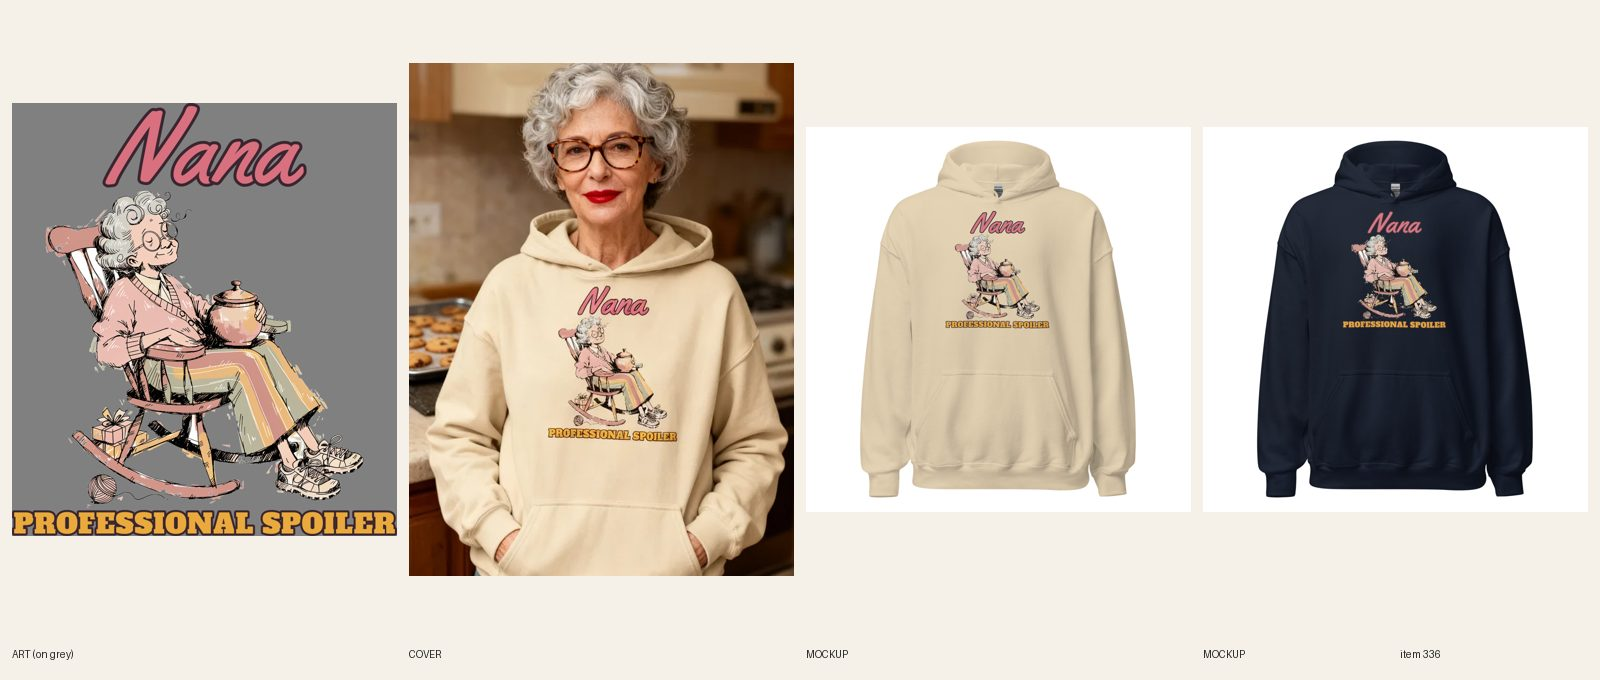
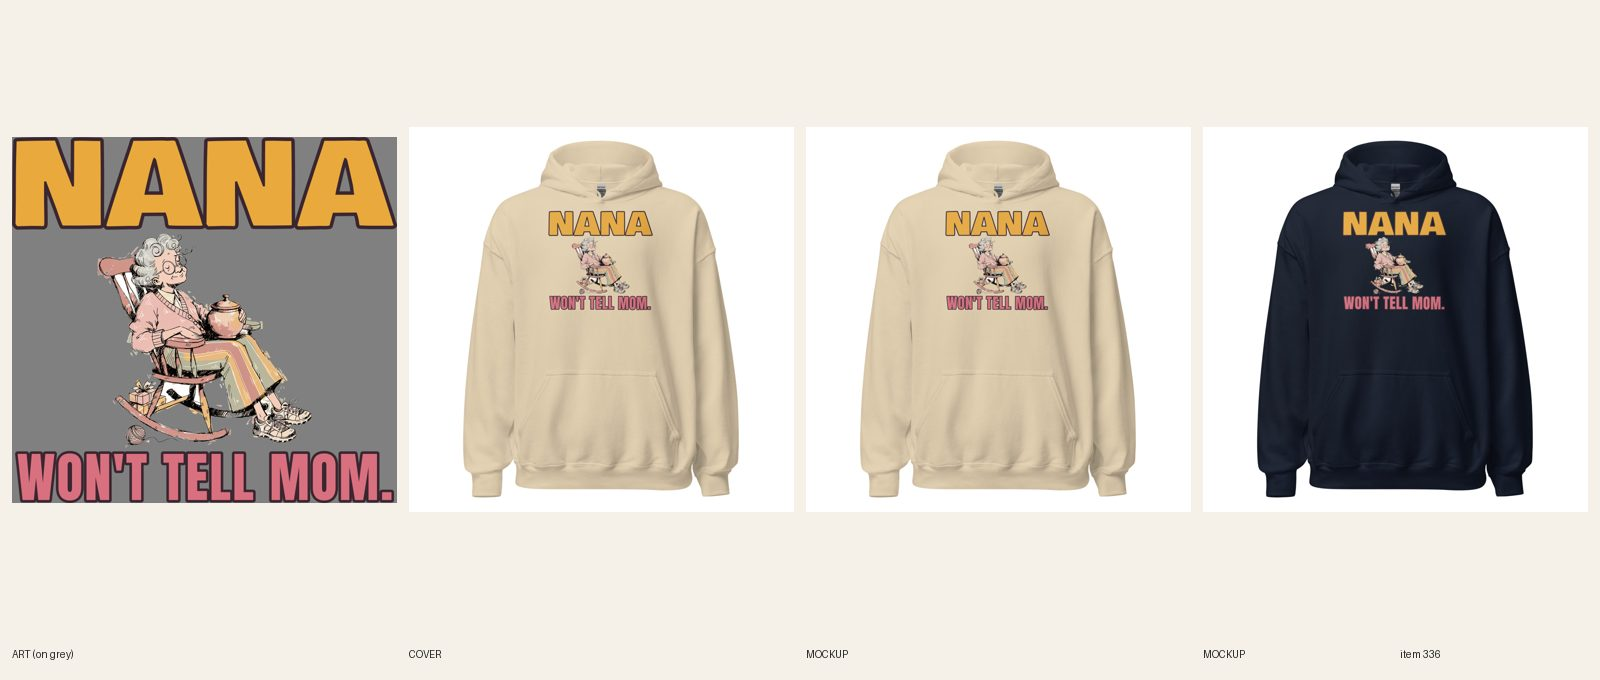
[B] review 336 Won't Tell Mom nana hoodie (type+line redo)
Claude-Session: https://claude.ai/code/session_01T3usSeo7AaAFdBiY3qMrm1

Changed region(s): [[0.0, 0.0926, 0.5, 0.8647], [0.8125, 0.3088, 0.9062, 0.4941], [0.5938, 0.3088, 0.6562, 0.4941]]

diff --git a/docs/pipeline/336-nana-hoodie-professional-spoiler.md b/docs/pipeline/336-nana-hoodie-professional-spoiler.md
@@ -1,4 +1,4 @@
-status: BUILDING [B] 2026-10-19 22:10
+status: REVIEW
 lane: B
 type: new
 id: 336
@@ -30,3 +30,4 @@ kd: 16
 - 2026-10-17 23:45 UTC builder [B]: synced 12/12. REVIEW. Sheet docs/review/336.jpg.
 - 2026-10-17 20:16 UTC director: APPROVED, LIVE. ACTIVE + published Online Store, Headless, Google; cohesion-audit --handle PASS.
 - 2026-10-18 17:22 UTC director: QUALITY RESET grade C (new line + type), REDO. The product stays ACTIVE (same handle, URL, title keyword). 1. Line (R3.12, quality-reset 'Lines'): "Nana / PROFESSIONAL SPOILER": Stock grandma slogan, noun + mild aside; also script headline. Write 5 candidates, keep the one a stranger laughs at in 3 seconds without backstory; kill lines that only describe the picture; if none of the 5 is funny, PARK it. 2. Quality reset type bar (docs/backlog/quality-reset.md, 'The new bar'): headline at least 90% of the art width, heavy, colors pulled from the art; second line at least 45% of the headline's height, never a thin script on a dark or mid garment; use the lettering as a shape (arch, stacked lockup, words breaking into the art), not a plain bar above and a script line below; no font used on more than 1 in 6 of the last 30 designs. 3. Keep the art if it carries the new line, else one new illustration (R4/R5). New print means a new cover per R6.10, copy line one rewritten for the new joke (R8.3), and a fresh review sheet (R7.7). While quality-reset.md says PAUSED, only lane A builds, and only the samples step 2 names.
+- 2026-10-19 22:40 UTC builder [B]: REDO 336 (C grade) done on the existing product (stays ACTIVE, handle unchanged). 5 candidates: "Nana Won't Tell Mom."; "Nana Has Snacks"; "Ask Nana. She'll Say Yes."; "What Happens at Nana's Stays at Nana's"; "Professional Spoiler" (old, stock). Kept NANA / WON'T TELL MOM. (3-second laugh, the cookie jar and presents carry it). Same art (white patch under rocker knocked out, 40000). designs/b336/spec.json: NANA in Bowlby One mustard #e9a93c full print width above, WON'T TELL MOM. in Anton rose #d9707f below (second line 47% of headline height), dark plum outline; no cream fill so no light file needed (R5.3.8 n/a). Printful file 1089952064 (3363x3197), FW 1500 TOP 0, 12/12 on 1089952064, back logo 1080398177. Sand and Navy fronts replaced in place via fileUpdate, alts updated. Shopify: title "Women's Nana – Won't Tell Mom Hoodie", SEO, copy (line one opens on the print's words + who + when, no superlative), FAQs 5 x 48-52 words incl. Dec 8, ink named from the mockups (mustard, rose, plum outline). Cover: handle added to retired-covers.json, plain product shot until fal top-up. audit --handle PASS 0 warn; astro build OK; no price errors. fal $0. Sheet docs/review/336.jpg.

diff --git a/docs/intake-log.md b/docs/intake-log.md
@@ -1,5 +1,6 @@
 RUNNING director since 2026-10-19 22:12 UTC
 2026-10-19 22:06 UTC — [A] Builder run: redid #477 Women's Clocked It embroidered crewneck (type only: cat kept, heavy slab CLOCKED IT. at full cat width, SAID NOTHING. block letters on the cuff, white thread, 17/17 resynced, 4 images replaced in place, copy updated, plain product shot; fixed broken retired-covers.json comma). REVIEW. fal $0. Lock released.
+2026-10-19 22:41 UTC — [B] Builder run: redid #336 Women's Nana hoodie (type+line: NANA / WON'T TELL MOM., 12/12 relinked on 1089952064, 2 mockups replaced in place, copy updated, plain product shot). REVIEW. fal $0.
 RUNNING lane B since 2026-10-19 22:02 UTC
 RUNNING lane C since 2026-10-19 21:54 UTC
 2026-10-19 21:43 UTC — [H] Helper run: Telegram inbox empty (getUpdates returned 0 updates; no pause, resume or TikTok links; nothing to consume). Audit (605 products): 0 errors, 30 warnings left alone (polish); no meta, SEO, collection or price errors to fix; announcement bar unchanged. Category check: 0 products without a category (Shopify query empty, no mutation). Site freshness: womens-clocked-it-said-nothing-graphic-tee, womens-mimi-says-yes-crewneck-sweatshirt, womens-gigi-because-grandma-sounded-old-crewneck-sweatshirt all 200. Stuck work: none (#632 BUILDING but claimed by lane E at 21:31 UTC; lane E lock 21:14 under 2 hours). Daily summary not due (sent 16:05 today). Lock released.

diff --git a/docs/cohesion-audit.md b/docs/cohesion-audit.md
@@ -1,4 +1,4 @@
-# Cohesion audit — 2026-10-19 21:42 UTC
+# Cohesion audit — 2026-10-19 22:13 UTC
 
 605 live products checked · **0 errors** · 30 warnings · 28 products with findings
 
